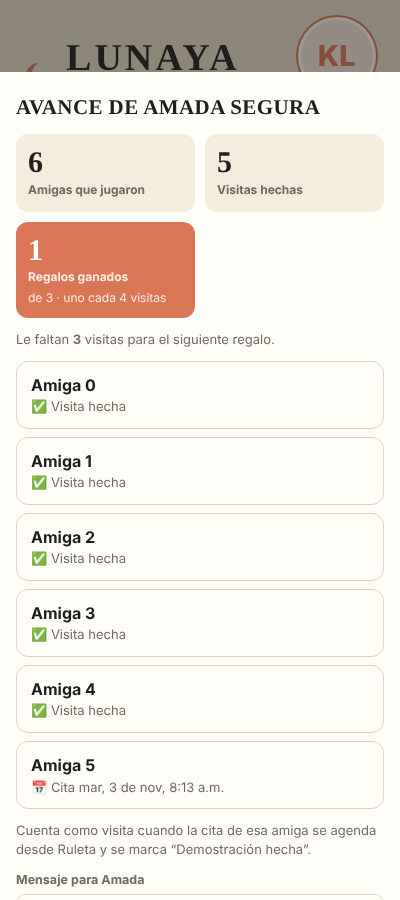
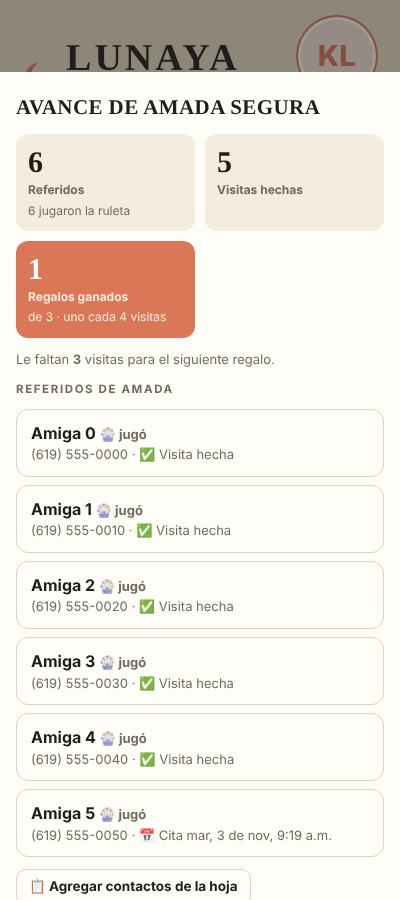
Embudo semanal de cada socio (números, citas, demos, ventas) y por socio para Dirección; contactos y foto de la hoja de referidos dentro del programa de cada cliente
Claude-Session: https://claude.ai/code/session_01XWBzL1oQyo7kcyYzjNCq7X

diff --git a/juego.js b/juego.js
@@ -278,9 +278,17 @@ function jgSub(f, v){ const k = f+"|"+v;
   return [u1, u2, () => { delete S.jl[k]; delete S.ll[k]; S.juegos = Object.assign({}, ...Object.values(S.jl)); S.leads = Object.assign({}, ...Object.values(S.ll)); }];
 }
 /* Avance de un cliente: amigas que jugaron y visitas hechas (citas de esas amigas marcadas "Demostración hecha") */
+/* Referidos de un cliente: los que jugaron la ruleta y los de la hoja (uno por teléfono; si jugó, cuenta como jugó) */
+const esProsp = l => l.kind==="jugador" || l.kind==="hoja";
+function refsDe(code){ const by = {}; Object.entries(S.leads||{}).forEach(([id,l]) => { if (!esProsp(l) || l.code!==code) return; const k = l.tel || id; const cur = by[k];
+    if (!cur || (cur[1].kind==="hoja" && l.kind==="jugador")) by[k] = [id, {...l, apptId: l.apptId || cur?.[1]?.apptId, enviado: l.enviado || cur?.[1]?.enviado}]; else if (!cur[1].apptId && l.apptId) cur[1].apptId = l.apptId; });
+  return Object.values(by); }
+/* Prospectos para llamar: si un contacto de la hoja después jugó, se muestra una sola vez */
+function prospectos(){ const jug = new Set(Object.values(S.leads||{}).filter(l => l.kind==="jugador").map(l => l.code+"|"+l.tel));
+  return Object.entries(S.leads||{}).filter(([,l]) => l.kind==="jugador" || (l.kind==="hoja" && !jug.has(l.code+"|"+l.tel))); }
 function avanceDe(code){ const j = S.juegos?.[code] || {}; const m = {refs:14, cada:4, ...(S.programs?.[j.pid]?.meta || j.meta || {})};
-  const ls = Object.entries(S.leads||{}).filter(([id,l]) => l.kind==="jugador" && l.code===code);
-  const amigas = Math.max(j.n||0, ls.length), visitas = ls.filter(([,l]) => l.apptId && S.appts?.[l.apptId]?.status==="hecha").length;
+  const ls = refsDe(code); const jugaron = ls.filter(([,l]) => l.kind==="jugador").length;
+  const amigas = Math.max(j.n||0, jugaron), visitas = ls.filter(([,l]) => l.apptId && S.appts?.[l.apptId]?.status==="hecha").length;
   const base = m.cuenta==="amigas" ? amigas : visitas, max = Math.floor(m.refs/m.cada); const ganados = Math.min(Math.floor(base/m.cada), max);
   return {m, amigas, visitas, base, ganados, max, falta: ganados>=max ? 0 : m.cada - (base % m.cada), unidad: m.cuenta==="amigas" ? "amigas que jugaron" : "visitas"}; }
 function msgAvance(code){ const j = S.juegos[code], a = avanceDe(code), nm = firstName(j.ref);
@@ -288,11 +296,13 @@ function msgAvance(code){ const j = S.juegos[code], a = avanceDe(code), nm = fir
   return a.ganados > (j.avisados||0)
     ? `¡Hola ${nm}! 🎉 Te tengo una gran noticia: ${linea}, ¡y ya te ganaste tu regalo${a.ganados>1?" número "+a.ganados:""}! 🎁 Te escribo para coordinar la entrega.\n\n${a.falta ? `Te faltan ${a.falta} más para el siguiente regalo. ` : ""}Mira tu avance aquí: ${jgLink(code)}&a=1\n\n¡Gracias por recomendarnos! ❤`
     : `¡Hola ${nm}! 😊 Te cuento cómo va tu programa de regalos: ${linea}. Te faltan ${a.falta} para tu ${a.ganados ? "siguiente " : ""}regalo 🎁\n\nMira tu avance aquí: ${jgLink(code)}&a=1\n\n¡Gracias por recomendarnos! ❤`; }
+function msgReferido(code, nombre){ const j = S.juegos[code] || {}; const p = S.programs[j.pid] || {}; const r = firstName(j.ref);
+  return `¡Hola${nombre?" "+firstName(nombre):""}! 👋 Te escribo de parte de ${r}, que nos recomendó contigo 😊 Somos de Royal Prestige.\n\n${r} está participando por regalos para su cocina y tú también puedes ganarte uno, sin costo y sin obligación de compra 🎁\n\n${p.tipo==="caja"?"Abre tu caja sorpresa":"Gira la ruleta"} aquí 👉 ${jgLink(code)}`; }
 /* Guarda el avance en el link (lo ve el cliente en su página) y avisa cuando alguien se gana un regalo */
 function syncAvance(){ Object.entries(S.juegos||{}).forEach(([code,j]) => { if (j.kind==="campana" || !(j.by===S.uid || j.socioId===S.uid)) return; const a = avanceDe(code);
   if (a.visitas !== (j.visitas||0) || a.ganados !== (j.ganados||0)){ if (a.ganados > (j.ganados||0)) avisar("🎁 Un cliente se ganó su regalo", `${j.ref} ya tiene ${a.base} ${a.unidad}. Avísale desde Ruleta.`);
     j.visitas = a.visitas; j.ganados = a.ganados; S.db.doc("juegos/"+code).update({visitas:a.visitas, ganados:a.ganados}).catch(e => console.log("avance", e)); } }); }
-const nuevosLeads = () => Object.values(S.leads||{}).filter(l => l.kind==="jugador" && l.status==="nuevo").length;
+const nuevosLeads = () => prospectos().filter(([,l]) => l.status==="nuevo").length;
 /* Programas que puede usar: los suyos, los de su director o distribuidor y, para las telemarketers del programa, los de Dirección */
 function misProgramas(){ const yo = pagadorDe(S.uid);
   return Object.entries(S.programs||{}).filter(([,p]) => p.activo!==false && (p.owner===S.uid || p.owner===yo || pagadorDe(p.owner)===yo || (role()==="tele" && !S.me?.upline && S.members[p.owner]?.role==="admin")))
@@ -300,7 +310,7 @@ function misProgramas(){ const yo = pagadorDe(S.uid);
 const progName = pid => S.programs?.[pid]?.name || "Programa";
 
 function viewJuego(r){
-  const f = S.f.lead || "nuevo"; const leads = Object.entries(S.leads||{}).filter(([,l]) => l.kind==="jugador" && (f==="todos" || l.status===f)).sort((a,b)=>(b[1].at||0)-(a[1].at||0));
+  const f = S.f.lead || "nuevo"; const leads = prospectos().filter(([,l]) => f==="todos" || l.status===f).sort((a,b)=>(b[1].at||0)-(a[1].at||0));
   const progs = misProgramas(); const mine = Object.entries(S.programs||{}).filter(([,p]) => p.owner===S.uid);
   const links = Object.entries(S.juegos||{}).sort((a,b)=>(b[1].createdAt||0)-(a[1].createdAt||0));
   const porAvisar = links.filter(([c,j]) => j.kind!=="campana" && avanceDe(c).ganados > (j.avisados||0));
@@ -309,7 +319,7 @@ function viewJuego(r){
       ${progs.length?"":`<p class="note" style="margin-bottom:0">Primero crea un programa: los regalos con su foto, la probabilidad de cada uno y la meta de referidos.</p>`}</div>
     <div class="card"><h2>Prospectos que llegaron<span class="note">${nuevosLeads()} nuevo(s)</span></h2>
       <div class="chips" style="margin-bottom:10px">${[["nuevo","Nuevos"],["llamado","Ya se llamó"],["cita","Con cita"],["no_interesa","No le interesa"],["todos","Todos"]].map(([k,l])=>`<button class="chip ${f===k?"on":""}" data-lf="${k}">${l}</button>`).join("")}</div>
-      ${leads.length?`<div class="list">${leads.slice(0,80).map(([id,l])=>`<button class="item" data-lead="${id}"><div><div class="t">${esc(l.name)}</div><div class="m">${telFmt(l.tel)} · 🎁 ${esc(l.prize)}</div><div class="m">Amiga de ${esc(l.ref||"—")} · ${fmt(l.at,{day:"numeric",month:"short"})}${l.socioId!==S.uid?" · para "+esc(memberName(l.socioId)):""}</div></div><span class="tag ${l.status==="nuevo"?"tg-warn":l.status==="cita"?"tg-good":"tg-mute"}">${JG_ST[l.status]||l.status}</span></button>`).join("")}</div>`:`<div class="empty">${f==="nuevo"?"No hay prospectos nuevos. Cuando alguien juegue con uno de tus links, aparece aquí solo.":"No hay prospectos aquí."}</div>`}</div>
+      ${leads.length?`<div class="list">${leads.slice(0,80).map(([id,l])=>`<button class="item" data-lead="${id}"><div><div class="t">${esc(l.name)}</div><div class="m">${telFmt(l.tel)} · ${l.kind==="hoja" ? "📋 De la hoja" : "🎁 "+esc(l.prize)}</div><div class="m">Amiga de ${esc(l.ref||"—")} · ${fmt(l.at,{day:"numeric",month:"short"})}${l.socioId!==S.uid?" · para "+esc(memberName(l.socioId)):""}</div></div><span class="tag ${l.status==="nuevo"?"tg-warn":l.status==="cita"?"tg-good":"tg-mute"}">${JG_ST[l.status]||l.status}</span></button>`).join("")}</div>`:`<div class="empty">${f==="nuevo"?"No hay prospectos nuevos. Cuando alguien juegue con uno de tus links, aparece aquí solo.":"No hay prospectos aquí."}</div>`}</div>
     <div class="card"><h2>Links activos<span class="note">${links.length}</span></h2>
       ${links.length?`<div class="list">${links.slice(0,40).map(([c,j])=>{ const m = j.meta || S.programs?.[j.pid]?.meta || {refs:14,cada:4}; const venc = j.until && j.until < Date.now();
         const av = avanceDe(c); return `<div class="item" style="cursor:default"><div style="min-width:0;flex:1"><div class="t">${j.kind==="campana"?"📣 ":j.kind==="amiga"?"👭 ":""}${esc(j.ref||"")}${av.ganados?` <span class="tag tg-good">🎁 ${av.ganados} ganado${av.ganados>1?"s":""}</span>`:""}</div><div class="m">${esc(progName(j.pid))} · ${av.amigas} amiga${av.amigas===1?"":"s"} · ${av.visitas} visita${av.visitas===1?"":"s"}${j.kind!=="campana"?` · faltan ${av.falta} para el ${av.ganados?"siguiente ":""}regalo`:""}${venc?" · vencido":j.until?" · hasta "+fmt(j.until,{day:"numeric",month:"short"}):""}${j.socioId!==S.uid?" · "+esc(memberName(j.socioId)):""}</div><div class="bar"><i style="width:${Math.min(100, av.base*100/(av.m.refs||14))}%"></i></div></div><div class="row" style="flex-wrap:nowrap;flex:none">${j.kind!=="campana"?`<button class="btn small ghost" data-avance="${c}">Avance</button>`:""}<button class="btn small" data-share="${c}">Mandar</button></div></div>`; }).join("")}</div>`:`<div class="empty">Todavía no hay links. Toca “Inscribir cliente”.</div>`}</div>
@@ -420,17 +430,32 @@ function openInscribir(){
 
 /* Avance del cliente: cuántas amigas, cuántas visitas, regalos ganados y mensaje listo para mandarle */
 function openAvance(code){ const j = S.juegos[code]; if (!j) return; const a = avanceDe(code); const cli = S.leads[code+"_ref"] || {}; const tel = telOk(cli.tel);
-  const ls = Object.values(S.leads||{}).filter(l => l.kind==="jugador" && l.code===code).sort((x,y)=>(y.at||0)-(x.at||0));
+  const ls = refsDe(code).map(([id,l]) => ({...l, _id:id})).sort((x,y)=>(y.at||0)-(x.at||0)); const R = S.leads[code+"_ref"] || {};
   openModal(`<h3>Avance de ${esc(j.ref)}</h3>
-    <div class="tiles"><div class="tile"><b>${a.amigas}</b><span>Amigas que jugaron</span></div><div class="tile"><b>${a.visitas}</b><span>Visitas hechas</span></div><div class="tile acc"><b>${a.ganados}</b><span>Regalos ganados</span><small>de ${a.max} · uno cada ${a.m.cada} ${a.m.cuenta==="amigas"?"amigas":"visitas"}</small></div></div>
+    <div class="tiles"><div class="tile"><b>${ls.length}</b><span>Referidos</span><small>${a.amigas} jugaron la ruleta</small></div><div class="tile"><b>${a.visitas}</b><span>Visitas hechas</span></div><div class="tile acc"><b>${a.ganados}</b><span>Regalos ganados</span><small>de ${a.max} · uno cada ${a.m.cada} ${a.m.cuenta==="amigas"?"amigas":"visitas"}</small></div></div>
     ${a.falta?`<p class="note" style="margin:0">Le faltan <b>${a.falta}</b> ${a.m.cuenta==="amigas"?"amigas":"visitas"} para el ${a.ganados?"siguiente ":""}regalo.</p>`:`<div class="banner good">🏆 Llegó a la meta.</div>`}
-    ${ls.length?`<div class="list">${ls.map(l => { const ap = l.apptId && S.appts?.[l.apptId]; return `<div class="item" style="cursor:default"><div><div class="t">${esc(l.name)}</div><div class="m">${ap ? (ap.status==="hecha" ? "✅ Visita hecha" : ap.status==="agendada" ? "📅 Cita "+fmtWhen(ap.when) : APPT_ST[ap.status]||ap.status) : (JG_ST[l.status]||l.status)}</div></div></div>`; }).join("")}</div>`:`<div class="empty">Todavía no juega ninguna amiga con su link.</div>`}
+    <div class="eyebrow">Referidos de ${esc(firstName(j.ref))}</div>
+    ${ls.length?`<div class="list">${ls.map(l => { const ap = l.apptId && S.appts?.[l.apptId]; const t = telOk(l.tel); return `<div class="item" style="cursor:default"><div style="min-width:0"><div class="t">${esc(l.name||"Sin nombre")} <span class="note">${l.kind==="jugador"?"🎡 jugó":"📋 hoja"}</span></div><div class="m">${telFmt(l.tel)} · ${ap ? (ap.status==="hecha" ? "✅ Visita hecha" : ap.status==="agendada" ? "📅 Cita "+fmtWhen(ap.when) : APPT_ST[ap.status]||ap.status) : (JG_ST[l.status]||l.status)}${l.enviado?" · mensaje enviado":""}</div></div>${t && l.kind==="hoja" && !ap ? `<a class="btn small ${l.enviado?"ghost":""}" target="_blank" rel="noopener" data-envia="${l._id}" href="https://wa.me/1${t}?text=${encodeURIComponent(msgReferido(code, l.name))}">${l.enviado?"Reenviar":"Mandar ruleta"}</a>` : ""}</div>`; }).join("")}</div>`:`<div class="empty">Todavía no hay referidos. Agrégalos de la hoja aquí abajo.</div>`}
+    <details ${ls.length?"":"open"}><summary class="btn small ghost" style="display:inline-flex">📋 Agregar contactos de la hoja</summary>
+      <label class="f" style="margin-top:8px">Uno por línea: nombre y teléfono<textarea class="i" id="av-hoja" style="min-height:120px" placeholder="Rosa Linares 619 555 1234&#10;Claudia (858) 555-9876"></textarea></label>
+      <div class="row" style="margin-top:6px"><button class="btn small" id="av-add">Agregar a ${esc(firstName(j.ref))}</button><label class="btn small ghost" style="cursor:pointer">📷 ${R.foto?"Cambiar foto de la hoja":"Subir foto de la hoja"}<input type="file" accept="image/*" id="av-foto" hidden></label></div>
+      ${R.foto?`<a href="${R.foto}" target="_blank" rel="noopener"><img src="${R.foto}" alt="Hoja de referidos" style="width:100%;border-radius:10px;margin-top:8px;border:1px solid var(--line)"></a><p class="note" style="margin:4px 0 0">La telemarketer puede pasar los contactos de la foto a la lista de arriba.</p>`:""}</details>
     <p class="note" style="margin:0">Cuenta como visita cuando la cita de esa amiga se agenda desde Ruleta y se marca “Demostración hecha”.</p>
     <label class="f">Mensaje para ${esc(firstName(j.ref))}<textarea class="i" id="av-m" style="min-height:150px">${esc(msgAvance(code))}</textarea></label>
     <div class="row"><a class="btn" id="av-wa" target="_blank" rel="noopener">WhatsApp${tel?" a "+esc(firstName(j.ref)):""}</a><a class="btn dark" id="av-sms">Mensaje de texto</a><button class="btn ghost" data-close>Cerrar</button></div>`, () => {
     const q = x => document.getElementById(x); const upd = () => { const t = q("av-m").value; q("av-wa").href = `https://wa.me/${tel?"1"+tel:""}?text=${encodeURIComponent(t)}`; q("av-sms").href = `sms:${tel?"+1"+tel:""}&body=${encodeURIComponent(t)}`; }; upd(); q("av-m").oninput = upd;
     const marcar = () => { if (a.ganados > (j.avisados||0)){ j.avisados = a.ganados; S.db.doc("juegos/"+code).update({avisados:a.ganados}).catch(e => console.log(e)); setTimeout(render, 300); } };
-    q("av-wa").addEventListener("click", marcar); q("av-sms").addEventListener("click", marcar); });
+    q("av-wa").addEventListener("click", marcar); q("av-sms").addEventListener("click", marcar);
+    document.querySelectorAll("[data-envia]").forEach(x => x.addEventListener("click", () => { S.db.doc("leads/"+x.dataset.envia).update({enviado:Date.now()}).catch(e => console.log(e)); setTimeout(() => openAvance(code), 800); }));
+    q("av-add").onclick = async () => { const nuevos = []; const ya = new Set(refsDe(code).map(([,l]) => l.tel));
+      q("av-hoja").value.split(/\n+/).map(x => x.trim()).filter(Boolean).forEach(line => { const t = telOk((line.match(/[\d\s().+-]{10,}/)||[""])[0]) || telOk(line.replace(/[^\d]/g,"")); const nm = line.replace(/[\d().+-]/g,"").replace(/[,;:]+/g," ").replace(/\s+/g," ").trim();
+        if (t && !ya.has(t) && !nuevos.some(x => x.tel===t)) nuevos.push({tel:t, name:nm.slice(0,60)}); });
+      if (!nuevos.length){ toast("No encontré teléfonos nuevos de 10 dígitos"); return; } q("av-add").disabled = true;
+      try { const bt = S.db.batch(); nuevos.forEach(x => bt.set(S.db.doc(`leads/${code}_h_${x.tel}`), {code, pid:j.pid, name:x.name, tel:x.tel, kind:"hoja", status:"nuevo", socioId:j.socioId, up:j.up||"", tv:!!j.tv, by:j.by, ref:j.ref||"", at:Date.now(), addedBy:S.uid})); await bt.commit();
+        nuevos.forEach(x => S.leads[`${code}_h_${x.tel}`] = {code, pid:j.pid, name:x.name, tel:x.tel, kind:"hoja", status:"nuevo", socioId:j.socioId, ref:j.ref, at:Date.now()}); toast(`${nuevos.length} referido(s) agregados a ${firstName(j.ref)}`); openAvance(code); } catch(e){ q("av-add").disabled = false; writeErr(e); } };
+    q("av-foto").onchange = async () => { const f = q("av-foto").files[0]; if (!f) return; try { const url = URL.createObjectURL(f); const img = await loadImg(url); URL.revokeObjectURL(url); const k = Math.min(1, 1300/Math.max(img.width, img.height)); const c = document.createElement("canvas"); c.width = Math.round(img.width*k); c.height = Math.round(img.height*k); c.getContext("2d").drawImage(img, 0, 0, c.width, c.height);
+      const foto = c.toDataURL("image/jpeg", 0.6); await S.db.doc("leads/"+code+"_ref").update({foto}); S.leads[code+"_ref"] = {...R, foto}; toast("Foto de la hoja guardada"); openAvance(code); } catch(e){ writeErr(e); } };
+  });
 }
 
 /* Mandar el link: al cliente por WhatsApp o texto, imagen con QR, copiar */
@@ -524,8 +549,9 @@ async function promoImg(j, p, link){
 
 function openLead(id){
   const l = S.leads[id]; if (!l) return; const t = telOk(l.tel) || l.tel;
-  openModal(`<h3>${esc(l.name)}</h3><div class="note" style="margin-top:-6px">🎁 Ganó: <b>${esc(l.prize)}</b> · Amiga de ${esc(l.ref||"—")} · ${esc(progName(l.pid))} · ${fmtWhen(l.at)}${l.socioId!==S.uid?` · para ${esc(memberName(l.socioId))}`:""}</div>
+  openModal(`<h3>${esc(l.name)}</h3><div class="note" style="margin-top:-6px">${l.kind==="hoja" ? "📋 Contacto de la hoja (todavía no juega la ruleta)" : `🎁 Ganó: <b>${esc(l.prize)}</b>`} · Amiga de ${esc(l.ref||"—")} · ${esc(progName(l.pid))} · ${fmtWhen(l.at)}${l.socioId!==S.uid?` · para ${esc(memberName(l.socioId))}`:""}</div>
     <div class="row"><a class="btn" href="tel:+1${t}">📞 Llamar</a><a class="btn dark" target="_blank" rel="noopener" href="https://wa.me/1${t}?text=${encodeURIComponent(`¡Hola ${firstName(l.name)}! 🎉 Te escribo de Royal Prestige por el regalo que ganaste en la ${S.programs[l.pid]?.tipo==="caja"?"caja sorpresa":"ruleta"}: ${l.prize}. ¿Cuándo te queda bien para coordinar la entrega?`)}">WhatsApp</a><a class="btn ghost" href="sms:+1${t}">Mensaje</a></div>
+    ${l.kind==="hoja" && S.juegos[l.code] ? `<a class="btn small ghost" target="_blank" rel="noopener" href="https://wa.me/1${t}?text=${encodeURIComponent(msgReferido(l.code, l.name))}">🎡 Mandarle la ruleta de ${esc(firstName(l.ref))}</a>` : ""}
     <div class="note">${telFmt(t)}</div><div id="ld-h"></div>
     <label class="f">Estado<select class="i" id="ld-st">${Object.entries(JG_ST).map(([k,v])=>`<option value="${k}" ${l.status===k?"selected":""}>${v}</option>`).join("")}</select></label>
     <label class="f">Notas<textarea class="i" id="ld-n" placeholder="Qué te dijo, cuándo volver a llamar…">${esc(l.notes||"")}</textarea></label>
@@ -535,7 +561,7 @@ function openLead(id){
     const upd = async (o) => { try { await S.db.doc("leads/"+id).update({...o, statusAt:Date.now()}); return true; } catch(e){ writeErr(e); return false; } };
     q("ld-save").onclick = async () => { if (await upd({status:q("ld-st").value, notes:q("ld-n").value.trim().slice(0,1000)})){ closeModal(); toast("Guardado"); } };
     q("ld-cita").onclick = () => { const own = l.socioId===S.uid; if (!own){ if (!S.members[l.socioId]){ toast("Ese socio ya no está en el equipo"); return; } S.world = l.socioId; }
-      const pre = {name:l.name, phone:telFmt(t), notes:`Ganó ${l.prize} en la ${S.programs[l.pid]?.tipo==="caja"?"caja sorpresa":"ruleta"} · amiga de ${l.ref||""}${l.notes?" · "+l.notes:""}`, onSaved: aid => S.db.doc("leads/"+id).update({status:"cita", apptId:aid, statusAt:Date.now()}).catch(()=>{})};
+      const pre = {name:l.name, phone:telFmt(t), notes:`${l.kind==="hoja" ? "Referido" : "Ganó "+l.prize+" en la "+(S.programs[l.pid]?.tipo==="caja"?"caja sorpresa":"ruleta")} · amiga de ${l.ref||""}${l.notes?" · "+l.notes:""}`, onSaved: aid => S.db.doc("leads/"+id).update({status:"cita", apptId:aid, statusAt:Date.now()}).catch(()=>{})};
       closeModal(); openCitaForm(own ? "" : "Ruleta", own, pre); };
   });
 }

diff --git a/index.html b/index.html
@@ -152,12 +152,12 @@ nav.bottom.many button{font-size:10px;min-width:0;padding:6px 1px;letter-spacing
 <script src="https://www.gstatic.com/firebasejs/10.12.2/firebase-firestore-compat.js"></script>
 <script src="config.js"></script>
 <script src="qr.js?v=1"></script>
-<script src="demo.js?v=202611040834"></script>
-<script src="juego.js?v=202611040834"></script>
+<script src="demo.js?v=202611040919"></script>
+<script src="juego.js?v=202611040919"></script>
 <script>
 /* ===== Constantes ===== */
 /* ===== Versión: si hay una nueva publicada, se avisa para recargar (así todas ven los mismos números) ===== */
-const APP_VER = "202611040834";
+const APP_VER = "202611040919";
 async function checkVer(){ try { const r = await fetch("version.txt?t="+Date.now(), {cache:"no-store"}); if (!r.ok) return; const v = (await r.text()).trim(); if (v && v !== APP_VER && !document.getElementById("ver-bar")){ const b = document.createElement("div"); b.id = "ver-bar"; b.className = "banner warn"; b.style.cssText = "position:fixed;top:8px;left:8px;right:8px;z-index:99;display:flex;justify-content:space-between;align-items:center;gap:8px"; b.innerHTML = "<span>🔄 Hay una versión nueva de Lunaya.</span><button class='btn small'>Actualizar</button>"; b.querySelector("button").onclick = () => location.reload(); document.body.appendChild(b); } } catch {} }
 setTimeout(checkVer, 3000); setInterval(checkVer, 5*60e3); document.addEventListener("visibilitychange", () => { if (!document.hidden) checkVer(); });
 const TZ = "America/Los_Angeles";
@@ -521,6 +521,36 @@ function openRuta(uid){ const m = S.members[uid] || {}; const r = m.ruta || {};
     <div class="row"><button class="btn" id="rt-ok">Guardar</button><button class="btn ghost" data-close>Cancelar</button></div>`, () => {
     $("#rt-ok").onclick = async () => { const d = $("#rt-d").value || today();
       try { await S.db.doc("members/"+uid).update({ruta:{solo:Math.max(0,+$("#rt-s").value||0), acomp:Math.max(0,+$("#rt-a").value||0), desde:laToMs(d,"00:00"), by:S.uid, at:Date.now()}}); closeModal(); toast("Ruta actualizada"); } catch(e){ writeErr(e); } }; }); }
+/* ===== Embudo semanal del socio: números → citas → demostraciones → ventas =====
+   Meta del equipo (la pone Dirección): 120 números a la semana → 30–50 citas → 12–16 demostraciones → 3–6 ventas. */
+const DEF_EMB = {leads:120, citas:30, citasMax:50, demos:12, demosMax:16, ventas:3, ventasMax:6};
+const emb = () => ({...DEF_EMB, ...(S.config.embudo||{})});
+function embudoDe(ids, r){ const set = new Set(ids);
+  const refs = allRefs().filter(x => set.has(x.socioId) && inR(x.at, r)).reduce((t,x) => t + (+x.n||0), 0);
+  const ruleta = Object.values(S.leads||{}).filter(l => (l.kind==="jugador" || l.kind==="hoja") && set.has(l.socioId) && inR(l.at||0, r)).length;
+  const ap = Object.values(S.appts).filter(a => set.has(a.socioId));
+  const citas = ap.filter(a => inR(a.createdAt||0, r)).length;
+  const demos = ap.filter(a => a.status==="hecha" && inR(a.when||0, r)).length;
+  const vl = ap.filter(a => a.sale && (a.saleStatus||"pendiente")!=="cancelada" && inR(a.when||0, r));
+  return {leads: refs + ruleta, refs, ruleta, citas, demos, ventas: vl.length, monto: vl.reduce((t,a) => t + (+a.amount||0), 0)}; }
+function embudoCard(uid){ const m = S.members[uid] || {}; const E = emb(); const wk = S.f.wk2 || "semana";
+  const r = wk==="semana" ? range("semana") : (() => { const mo = addDays(mondayOf(today()), -7); return [laToMs(mo,"00:00"), laToMs(addDays(mo,7),"00:00")]; })();
+  const ids = metaGrupo(uid); const e = embudoDe(ids, r);
+  const st = [["Números (leads)", e.leads, E.leads, 0, `${e.refs} referidos anotados${e.ruleta?` · ${e.ruleta} de la ruleta`:""}`], ["Citas", e.citas, E.citas, E.citasMax, ""], ["Demostraciones", e.demos, E.demos, E.demosMax, ""], ["Ventas", e.ventas, E.ventas, E.ventasMax, e.monto ? money(e.monto) : ""]];
+  const W = [100, 82, 64, 46];
+  return `<div class="card"><h2>${uid===S.uid?"Mi embudo de la semana":"Embudo de "+esc(m.name)}<span class="chips"><button class="chip ${wk==="semana"?"on":""}" data-wk2="semana">Esta semana</button><button class="chip ${wk==="ant"?"on":""}" data-wk2="ant">Semana pasada</button></span></h2>
+    ${ids.length>1?`<p class="note" style="margin-top:-6px">Tú y tu grupo.</p>`:""}
+    <div style="display:grid;gap:8px;justify-items:center">${st.map(([l, v, lo, hi, sub], i) => { const ok = v >= lo; const pc = Math.min(100, lo ? v*100/lo : 0);
+      return `<div style="width:${W[i]}%;min-width:220px;background:var(--soft);border-radius:12px;padding:10px 12px;border:1.5px solid ${ok?"var(--good)":"var(--line)"}">
+        <div class="row" style="justify-content:space-between"><b>${l}</b><b style="font-family:var(--serif);font-size:22px">${v} <span class="note">/ ${lo}${hi?"–"+hi:""}</span></b></div>
+        <div class="bar"><i style="width:${pc}%;${ok?"background:var(--good)":""}"></i></div>${sub?`<div class="note" style="margin-top:3px">${sub}</div>`:""}
+        ${i ? `<div class="note" style="margin-top:2px">${pctN(v, st[i-1][1]) ?? "—"}${st[i-1][1]?"%":""} de ${st[i-1][0].toLowerCase().replace(" (leads)","")}</div>` : ""}</div>`; }).join("")}</div>
+    <p class="note" style="margin-bottom:0">Meta de la semana: ${E.leads} números → ${E.citas}–${E.citasMax} citas → ${E.demos}–${E.demosMax} demostraciones → ${E.ventas}–${E.ventasMax} ventas. ${e.leads < E.leads ? `Te faltan <b>${E.leads - e.leads}</b> números esta semana.` : "✅ Ya llegaste a los números de la semana."}</p></div>`; }
+function embudoEquipoCard(){ const E = emb(); const r = range("semana"); const ss = socios().filter(s => s.role!=="baja");
+  const rows = ss.map(s => ({s, e: embudoDe([s.id], r)})).sort((a,b) => b.e.leads - a.e.leads);
+  return `<div class="card"><h2>Embudo de la semana por socio</h2><p class="note" style="margin-top:-6px">Meta: ${E.leads} números → ${E.citas}–${E.citasMax} citas → ${E.demos}–${E.demosMax} demos → ${E.ventas}–${E.ventasMax} ventas.</p>
+    <div class="tbl-wrap"><table><thead><tr><th>Socio</th><th class="n">Números</th><th class="n">Citas</th><th class="n">Demos</th><th class="n">Ventas</th></tr></thead><tbody>${rows.map(({s,e}) => `<tr><td><b>${esc(s.name)}</b></td>${[[e.leads,E.leads],[e.citas,E.citas],[e.demos,E.demos],[e.ventas,E.ventas]].map(([v,lo]) => `<td class="n"><span class="${v>=lo?"pct-good":v>=lo/2?"pct-mid":"pct-low"}">${v}</span></td>`).join("")}</tr>`).join("")}</tbody></table></div>
+    <details style="margin-top:10px"><summary class="note" style="cursor:pointer">Cambiar la meta del embudo</summary><div class="grid2" style="margin-top:8px">${[["leads","Números a la semana"],["citas","Citas (mínimo)"],["citasMax","Citas (máximo)"],["demos","Demostraciones (mínimo)"],["demosMax","Demostraciones (máximo)"],["ventas","Ventas (mínimo)"],["ventasMax","Ventas (máximo)"]].map(([k,l]) => `<label class="f">${l}<input class="i" type="number" min="0" data-emb="${k}" value="${E[k]}"></label>`).join("")}</div><button class="btn small" data-act="embudo" style="margin-top:8px">Guardar meta</button></details></div>`; }
 /* ===== Metas de ventas (mes y año) =====
    Emprendedor: sus propias ventas. Distribuidor y Dirección: las suyas más las de su grupo. Cuentan las aprobadas; las pendientes se ven aparte. */
 function metaGrupo(uid){ const m = S.members[uid] || {}; return (m.tipo===DIST || m.role==="admin") ? [uid, ...grupoDe(uid).filter(x => x.role==="socio").map(x => x.id)] : [uid]; }
@@ -739,7 +769,7 @@ function viewHoy(r){
       <div class="tile"><b>${e.ventas?money(e.monto/e.ventas):"—"}</b><span>Venta promedio</span></div>
       <div class="tile"><b>${pctN(e.ventas,e.demos)??"—"}${e.demos?"%":""}</b><span>% efectividad demo → venta</span></div>
       <div class="tile"><b>${e.refsDemo||0}</b><span>Referidos sacados en demos</span><small>${e.demos?(Math.round((e.refsDemo||0)/e.demos*10)/10)+" por casa":""}</small></div></div></div>`;
-    h = h.replace('<div class="card"><h2>Próximas citas', metasCard(S.uid) + '<div class="card"><h2>Próximas citas');
+    h = h.replace('<div class="card"><h2>Próximas citas', embudoCard(S.uid) + metasCard(S.uid) + '<div class="card"><h2>Próximas citas');
     h += gananciasCard(S.uid, S.f.period==="mesant" ? "mesant" : "mes") + rutaCard(S.uid) + socioRefCard() + driveCard();
   } else {
     const e = teleEval(null, rg); const sinRes = Object.values(S.appts).filter(a => a.status==="agendada" && a.when < Date.now()-3600e3).length;
@@ -749,7 +779,7 @@ function viewHoy(r){
     h += `<div class="card"><h2>Evaluación de telemarketers ${periodChips()}</h2>${teles.length?evalTable(teles, true):`<div class="empty">Aún no hay telemarketers aprobadas.</div>`}
       <p class="note">% efectividad cita → demo: de cada 100 citas que agendó (y que ya pasaron), cuántas se convirtieron en demostración.</p></div>`;
     if (ext.length) h += `<div class="card"><h2>Telemarketers externas de distribuidores</h2><p class="note" style="margin-top:-6px">Las contrata y les paga cada distribuidor. No son del programa Lunaya: no entran en tus comisiones ni en el 5%.</p>${evalTable(ext, true)}</div>`;
-    h = metasCard(S.uid) + h;
+    h = metasCard(S.uid) + embudoEquipoCard() + h;
     h += socioEvalCard(rg);
     const hoyT = telesLunaya().map(t => { const d = teleEval(t.id, range("hoy")); const last = allCalls().filter(c=>c.teleId===t.id).sort((a,b)=>b.at-a.at)[0]; return `<tr><td><b>${esc(t.name)}</b></td><td class="n">${d.calls}</td><td class="n">${d.contacts}</td><td class="n">${d.citas}</td><td class="note">${last?fmt(last.at,{weekday:"short",hour:"numeric",minute:"2-digit"}):"—"}</td></tr>`; }).join("");
     if (hoyT) h += `<div class="card"><h2>Hoy en vivo</h2><div class="tbl-wrap"><table><thead><tr><th>Telemarketer</th><th class="n">Llamadas</th><th class="n">Contactos</th><th class="n">Citas</th><th>Último registro</th></tr></thead><tbody>${hoyT}</tbody></table></div></div>`;
@@ -1331,6 +1361,7 @@ function bindCommon(){
   document.querySelectorAll("[data-tsel]").forEach(b => b.onclick = () => { const v = b.dataset.tsel; if (S.f.tmode==="tele"){ S.f.aTele = S.f.aTele===v ? "" : v; S.f.aSocio = ""; } else { S.f.aSocio = S.f.aSocio===v ? "" : v; S.f.aTele = ""; } render(); });
   const oc = document.getElementById("own-cita"); if (oc) oc.onclick = () => openCitaForm("", true);
   document.querySelectorAll("[data-metas]").forEach(b => b.onclick = openMetas);
+  document.querySelectorAll("[data-wk2]").forEach(b => b.onclick = () => { S.f.wk2 = b.dataset.wk2; render(); });
   document.querySelectorAll("[data-ruta]").forEach(b => b.onclick = () => openRuta(b.dataset.ruta));
   all("[data-lt]", b => b.onclick = () => { S.f.lt = b.dataset.lt; render(); });
   all("[data-day]", b => b.onclick = () => { S.f.day = b.dataset.day; render(); });
@@ -1351,6 +1382,7 @@ function bindCommon(){
     if (a==="world") setWorld("");
     else if (a==="metas"){ const list = $("#m-src").value.split(",").map(x=>x.trim()).filter(Boolean); try { await S.db.doc("config/main").set({...S.config, metaLlamadas:+$("#m-l").value||80, metaCitas:+$("#m-c").value||4, sources:list.length?list:DEFAULT_SOURCES}); toast("Guardado"); } catch(e){ writeErr(e); } }
     else if (a==="comision"){ try { await S.db.doc("config/main").set({...S.config, comision:{sueldo:+$("#k-sueldo").value||0, pct:+$("#k-pct").value||0, liderPct:+$("#k-lider").value||0, distPct:+$("#k-dist").value||0}}); toast("Comisiones guardadas"); } catch(e){ writeErr(e); } }
+    else if (a==="embudo"){ const e = {}; document.querySelectorAll("[data-emb]").forEach(x => e[x.dataset.emb] = Math.max(0, +x.value||0)); try { await S.db.doc("config/main").set({...S.config, embudo:e}); toast("Meta del embudo guardada"); } catch(err){ writeErr(err); } }
     else if (a==="export") doExport("mes");
     else if (a==="export-prev") doExport("mesant");
     else if (a==="backup") doBackup("citas");
